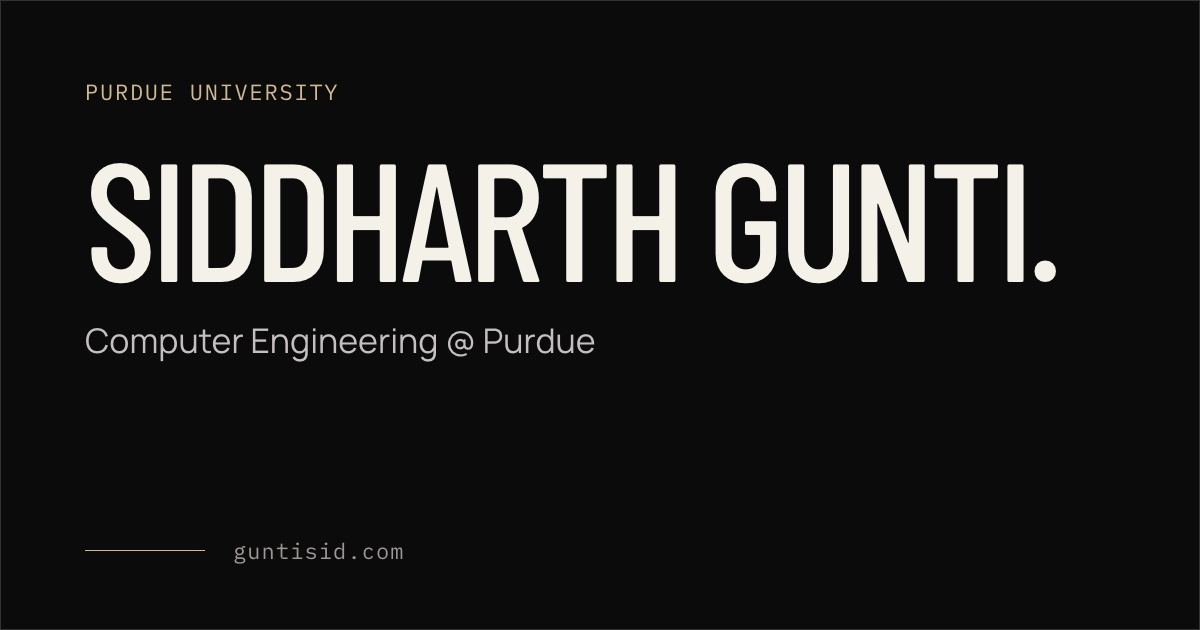
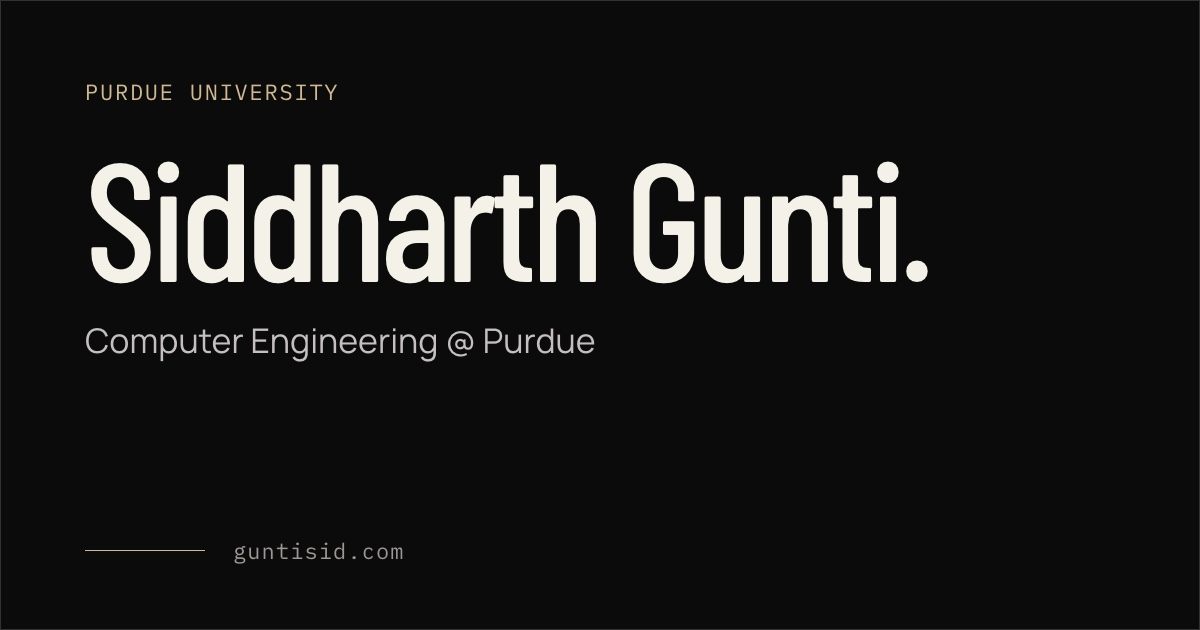
Address review: stat reading order, one card render path, sturdier OG script
Stats put the value first in the DOM instead of reordering with CSS, and
the robotics caption reads on its own. Every project card renders one
.project-main, with the spec sheet driven by project.specs. The OG
script reports a missing Chromium, sorts versions numerically, and
checks the screenshot exists. The JSON-LD email is plain text, the
Twitter card has alt text, and the OG name matches the hero's case.

Changed region(s): [[0.1233, 0.2413, 0.8942, 0.4524]]

diff --git a/src/App.jsx b/src/App.jsx
@@ -101,7 +101,7 @@ const stats = [
   { value: "50+", caption: "Electrolyzer trials analyzed", source: "Research Support India" },
   { value: "29K", caption: "Views on short-form content, ~20× typical", source: "The Station Food Market" },
   { value: "20+", caption: "Volunteers led on a community build", source: "Eagle Scout Project" },
-  { value: "6", caption: "Person robotics team captained", source: "VEX Robotics 3327C" },
+  { value: "6", caption: "Robotics team members led as captain", source: "VEX Robotics 3327C" },
 ];
 
 const projects = [
@@ -114,7 +114,6 @@ const projects = [
       "Developing a reusable drone communication architecture that replaces radio-frequency command and data links with fiber optics for reliable operation in environments where wireless communication is unavailable, unreliable, or undesirable.",
     tools: ["Fiber Optics", "Communications", "Embedded Systems", "Systems Design"],
     status: "In Development",
-    featured: true,
     specs: [
       ["Link", "Fiber-optic tether for command and data, no radio link"],
       ["Platform", "Modular, tethered drone"],
@@ -320,8 +319,8 @@ export default function App() {
           <dl>
             {stats.map((stat, index) => (
               <div key={stat.caption} data-reveal style={{ "--reveal-delay": `${index * 55}ms` }}>
-                <dt>{stat.caption}</dt>
-                <dd className="stat-value">{stat.value}</dd>
+                <dt className="stat-value">{stat.value}</dt>
+                <dd>{stat.caption}</dd>
                 <dd className="stat-source">{stat.source}</dd>
               </div>
             ))}
@@ -365,42 +364,37 @@ export default function App() {
           <div className="project-grid">
             {projects.map((project, index) => {
               const ProjectIcon = project.icon;
-              const content = (
-                <>
-                  <div className="project-topline">
-                    <span>{project.type}</span>
-                    <ProjectIcon size={25} weight="duotone" aria-hidden="true" />
-                  </div>
-                  <p className="project-role">{project.role}{project.status ? <span className="project-status">{project.status}</span> : null}</p>
-                  <h3>{project.title}</h3>
-                  <p>{project.description}</p>
-                  {project.detail ? <p>{project.detail}</p> : null}
-                  {project.note ? <strong>{project.note}</strong> : null}
-                  <ul className="tag-list" aria-label={`${project.title} technologies`}>
-                    {project.tools.map((tool) => <li key={tool}>{tool}</li>)}
-                  </ul>
-                  {project.link ? (
-                    <a className={`project-link${project.status ? " project-link--brief" : ""}`} href={project.link} target="_blank" rel="noreferrer" aria-label={project.linkAriaLabel || `${project.linkLabel}, opens in a new tab`}>
-                      {project.linkLabel}<ArrowUpRight size={15} />
-                    </a>
-                  ) : null}
-                </>
-              );
               return (
-                <article key={project.title} className={project.featured ? "is-featured" : undefined} data-reveal style={{ "--reveal-delay": `${index * 45}ms` }}>
-                  {project.featured ? (
-                    <>
-                      <div className="project-main">{content}</div>
-                      <dl className="project-specs" aria-label={`${project.title} specifications`}>
-                        {project.specs.map(([label, value]) => (
-                          <div key={label}>
-                            <dt>{label}</dt>
-                            <dd>{value}</dd>
-                          </div>
-                        ))}
-                      </dl>
-                    </>
-                  ) : content}
+                <article key={project.title} className={project.specs ? "is-featured" : undefined} data-reveal style={{ "--reveal-delay": `${index * 45}ms` }}>
+                  <div className="project-main">
+                    <div className="project-topline">
+                      <span>{project.type}</span>
+                      <ProjectIcon size={25} weight="duotone" aria-hidden="true" />
+                    </div>
+                    <p className="project-role">{project.role}{project.status ? <span className="project-status">{project.status}</span> : null}</p>
+                    <h3>{project.title}</h3>
+                    <p>{project.description}</p>
+                    {project.detail ? <p>{project.detail}</p> : null}
+                    {project.note ? <strong>{project.note}</strong> : null}
+                    <ul className="tag-list" aria-label={`${project.title} technologies`}>
+                      {project.tools.map((tool) => <li key={tool}>{tool}</li>)}
+                    </ul>
+                    {project.link ? (
+                      <a className={`project-link${project.status ? " project-link--brief" : ""}`} href={project.link} target="_blank" rel="noreferrer" aria-label={project.linkAriaLabel || `${project.linkLabel}, opens in a new tab`}>
+                        {project.linkLabel}<ArrowUpRight size={15} />
+                      </a>
+                    ) : null}
+                  </div>
+                  {project.specs ? (
+                    <dl className="project-specs" aria-label={`${project.title} specifications`}>
+                      {project.specs.map(([label, value]) => (
+                        <div key={label}>
+                          <dt>{label}</dt>
+                          <dd>{value}</dd>
+                        </div>
+                      ))}
+                    </dl>
+                  ) : null}
                 </article>
               );
             })}

diff --git a/src/styles.css b/src/styles.css
@@ -427,14 +427,17 @@ img {
   padding-left: var(--page);
 }
 
-.stats-band dt {
-  margin-bottom: 18px;
+.stats-band dl > div:last-child {
+  padding-right: var(--page);
+}
+
+.stats-band dd {
+  margin: 0 0 18px;
   color: var(--muted-strong);
   font-size: 0.88rem;
 }
 
 .stats-band .stat-value {
-  order: -1;
   margin: 0 0 10px;
   color: var(--paper);
   font: 500 clamp(2.4rem, 4vw, 3.6rem) / 0.95 var(--display);
@@ -445,7 +448,7 @@ img {
 .stats-band .stat-source {
   margin: auto 0 0;
   color: var(--accent);
-  font: 0.6rem var(--mono);
+  font: 0.64rem var(--mono);
   letter-spacing: 0.045em;
   text-transform: uppercase;
 }
@@ -680,8 +683,12 @@ img {
 .project-main {
   display: flex;
   min-width: 0;
-  height: 100%;
+  flex: 1;
   flex-direction: column;
+}
+
+.is-featured .project-main {
+  height: 100%;
 }
 
 .project-specs {
@@ -748,7 +755,6 @@ img {
   text-transform: uppercase;
 }
 
-.project-grid article > p:not(.project-role),
 .project-main > p:not(.project-role) {
   max-width: 64ch;
   margin-bottom: 18px;
@@ -756,7 +762,7 @@ img {
   font-size: 0.92rem;
 }
 
-.project-grid article > strong {
+.project-main > strong {
   margin-bottom: 18px;
   color: var(--muted-strong);
   font-size: 0.8rem;
@@ -1093,6 +1099,10 @@ footer a:focus-visible {
     padding-left: var(--page);
   }
 
+  .stats-band dl > div:nth-child(even) {
+    padding-right: var(--page);
+  }
+
   .stats-band dl > div:nth-child(n + 3) {
     border-top: 1px solid var(--line);
   }
@@ -1177,7 +1187,11 @@ footer a:focus-visible {
     padding-left: var(--page);
   }
 
-  .stats-band dt {
+  .stats-band dl > div:nth-child(even) {
+    padding-right: var(--page);
+  }
+
+  .stats-band dd {
     font-size: 0.82rem;
   }
 

diff --git a/index.html b/index.html
@@ -21,6 +21,7 @@
     <meta name="twitter:title" content="Sid Gunti | Computer Engineering Portfolio" />
     <meta name="twitter:description" content="Embedded systems, robotics, data, and software." />
     <meta name="twitter:image" content="https://guntisid.com/og-image.jpg" />
+    <meta name="twitter:image:alt" content="Siddharth Gunti. Computer Engineering at Purdue University." />
     <link rel="canonical" href="https://guntisid.com/" />
     <link rel="icon" href="%BASE_URL%favicon.svg" type="image/svg+xml" />
     <title>Sid Gunti | Computer Engineering Portfolio</title>
@@ -31,7 +32,7 @@
         "name": "Siddharth Gunti",
         "alternateName": "Sid Gunti",
         "url": "https://guntisid.com/",
-        "email": "mailto:sgunti@purdue.edu",
+        "email": "sgunti@purdue.edu",
         "jobTitle": "Computer Engineering Student",
         "affiliation": {
           "@type": "CollegeOrUniversity",

diff --git a/scripts/og-image.html b/scripts/og-image.html
@@ -59,7 +59,6 @@
         margin: 34px 0 26px;
         font: 500 168px / 0.9 "Barlow Condensed", sans-serif;
         letter-spacing: -0.035em;
-        text-transform: uppercase;
       }
 
       .deck {
